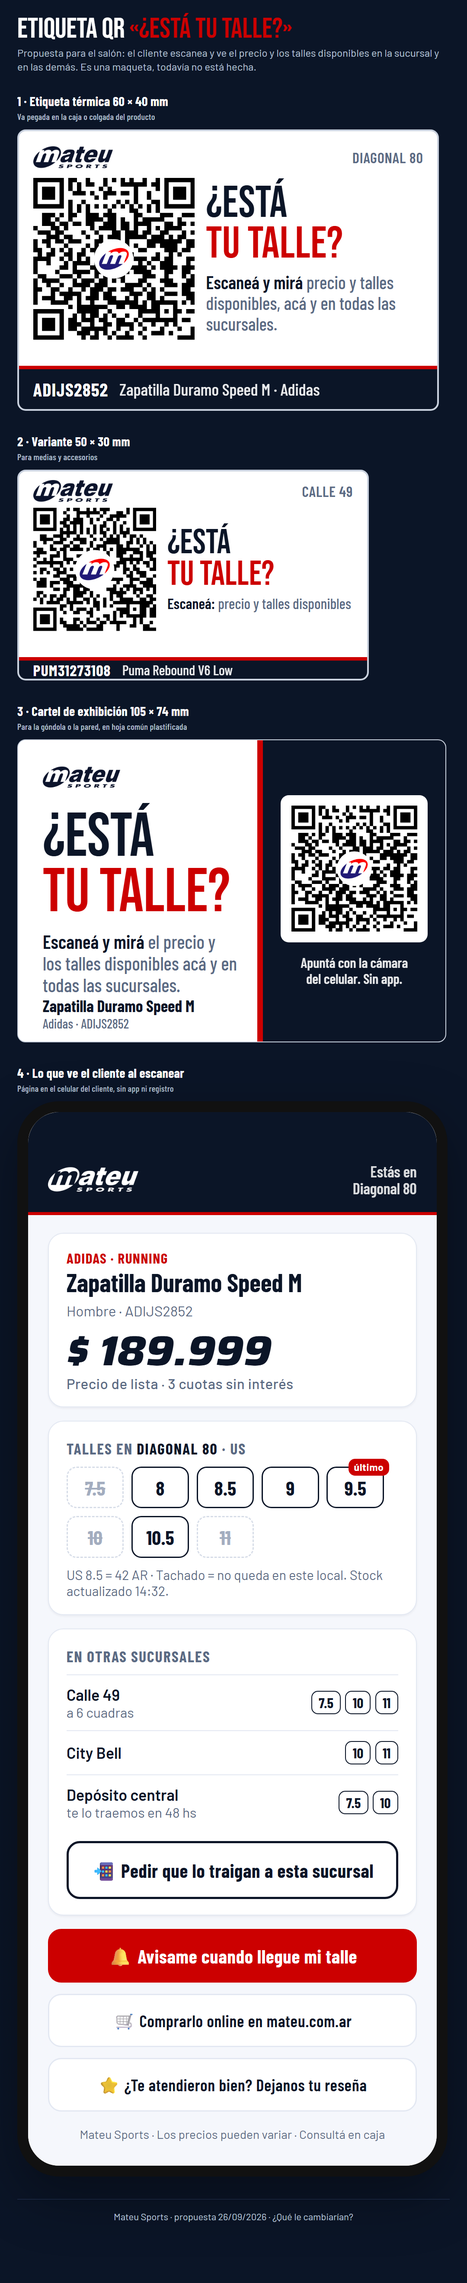
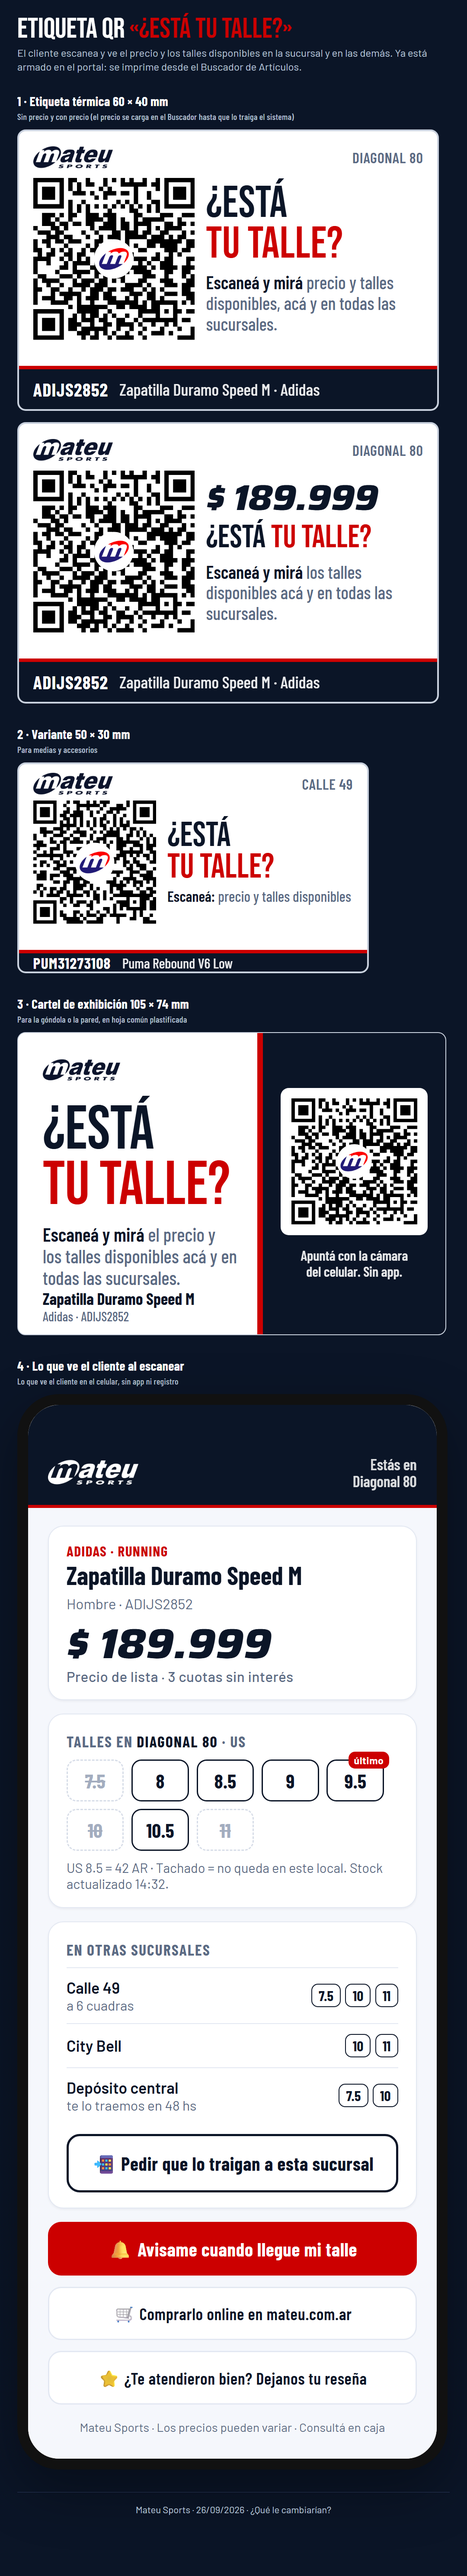
Etiquetas QR: maqueta e imágenes para WhatsApp con la variante con precio; el precio de la etiqueta en Saira a 5,1 mm en una sola línea (el Buscador ahora carga esa fuente)

diff --git a/docs/maquetas/etiqueta-qr.html b/docs/maquetas/etiqueta-qr.html
@@ -21,6 +21,10 @@ h2 small{font-weight:500;color:var(--muted);font-size:14px;margin-left:8px}
 .lbl .txt{flex:1;display:flex;flex-direction:column;justify-content:center;min-width:0}
 .lbl .h{font-family:'Bebas Neue';font-size:6.3mm;line-height:.92;color:var(--navy);letter-spacing:.1px}
 .lbl .h b{color:var(--red);font-weight:400}
+.lbl .pr{font-family:Saira,'Barlow Condensed';font-style:italic;font-weight:800;font-size:5.1mm;line-height:1;margin-bottom:.9mm;letter-spacing:-.2px;white-space:nowrap}
+.lbl .h.sm{font-size:4.6mm;line-height:1}
+.lbl.s .h.sm{font-size:3.6mm}.lbl.s .pr{font-size:4.1mm}
+
 .lbl .p{font-family:'Barlow Condensed';font-weight:600;font-size:2.55mm;line-height:1.15;color:var(--navy);margin-top:1mm}
 .lbl .p span{color:var(--muted);font-weight:500}
 .lbl .foot{background:var(--navy);color:#fff;height:6.6mm;display:flex;align-items:center;padding:0 2mm;gap:1.6mm;border-top:.55mm solid var(--red)}
@@ -84,7 +88,7 @@ h2 small{font-weight:500;color:var(--muted);font-size:14px;margin-left:8px}
 .note b{font-family:'Barlow Condensed';font-size:16px}
 </style></head><body>
 
-<h2>1 · Etiqueta térmica 60 × 40 mm <small>(vista al ×3 — es la que va pegada en la caja / colgada del producto)</small></h2>
+<h2>1 · Etiqueta térmica 60 × 40 mm <small>(vista al ×3 — sin precio y con precio; el precio se tipea en el Buscador hasta que lo traiga el sistema)</small></h2>
 <div class="row">
  <div class="lbl">
[1 lines of base64/hex data omitted]
@@ -93,6 +97,18 @@ h2 small{font-weight:500;color:var(--muted);font-size:14px;margin-left:8px}
    <div class="txt">
     <div class="h">¿Está<br><b>tu talle?</b></div>
     <div class="p">Escaneá y mirá <span>precio y talles disponibles, acá y en todas las sucursales.</span></div>
+   </div>
+  </div>
+  <div class="foot"><span class="cod">ADIJS2852</span><span class="desc">Zapatilla Duramo Speed M · Adidas</span></div>
+ </div>
+ <div class="lbl">
[1 lines of base64/hex data omitted]
+  <div class="body">
+   <div class="qr"><div id="q1b"></div><div class="m"><img src="../../icons/logo-m.png"></div></div>
+   <div class="txt">
+    <div class="pr">$ 189.999</div>
+    <div class="h sm">¿Está <b>tu talle?</b></div>
+    <div class="p">Escaneá y mirá <span>los talles disponibles acá y en todas las sucursales.</span></div>
    </div>
   </div>
   <div class="foot"><span class="cod">ADIJS2852</span><span class="desc">Zapatilla Duramo Speed M · Adidas</span></div>
@@ -160,6 +176,7 @@ h2 small{font-weight:500;color:var(--muted);font-size:14px;margin-left:8px}
 <script>
 function qr(id,txt){var q=qrcode(0,'H');q.addData(txt);q.make();document.getElementById(id).innerHTML=q.createSvgTag({cellSize:4,margin:0,scalable:true});}
 qr('q1','https://m.mateu.com.ar/q/ADIJS2852?s=10');
+qr('q1b','https://m.mateu.com.ar/q/ADIJS2852?s=10');
 qr('q2','https://m.mateu.com.ar/q/PUM31273108?s=16');
 qr('q3','https://m.mateu.com.ar/q/ADIJS2852?s=10');
 </script>

diff --git a/ubicaciones/index.html b/ubicaciones/index.html
@@ -8,7 +8,7 @@
 <meta name="mobile-web-app-capable" content="yes">
 <meta name="apple-mobile-web-app-status-bar-style" content="black-translucent">
 <title>Buscador de Artículos — Mateu Sports</title>
-<link href="https://fonts.googleapis.com/css2?family=Bebas+Neue&family=Barlow+Condensed:wght@400;500;600;700&family=Barlow:wght@400;500;600&display=swap" rel="stylesheet">
+<link href="https://fonts.googleapis.com/css2?family=Bebas+Neue&family=Barlow+Condensed:wght@400;500;600;700&family=Barlow:wght@400;500;600&family=Saira:ital,wght@1,800&display=swap" rel="stylesheet">
 <script src="https://cdnjs.cloudflare.com/ajax/libs/xlsx/0.18.5/xlsx.full.min.js"></script>
 <style>
 *, *::before, *::after { box-sizing:border-box; margin:0; padding:0; }
@@ -681,14 +681,14 @@ body.puesto .ubi-chip{ font-size:16px; padding:9px 14px; border-radius:8px; }
 .qr-lbl .h{ font-family:'Bebas Neue', 'Barlow Condensed', sans-serif; font-size:6.3mm; line-height:.92; letter-spacing:.1px; }
 .qr-lbl .h.sm{ font-size:4.6mm; line-height:1; }
 .qr-lbl .h b{ color:#CC0000; font-weight:400; }
-.qr-lbl .pr{ font-family:'Saira', 'Barlow Condensed', sans-serif; font-style:italic; font-weight:800; font-size:6.4mm; line-height:1; margin-bottom:.8mm; letter-spacing:-.1px; }
+.qr-lbl .pr{ font-family:'Saira', 'Barlow Condensed', sans-serif; font-style:italic; font-weight:800; font-size:5.1mm; line-height:1; margin-bottom:.9mm; letter-spacing:-.2px; white-space:nowrap; }
 .qr-lbl .p{ font-weight:600; font-size:2.55mm; line-height:1.15; margin-top:1mm; }
 .qr-lbl .p span{ color:#5b6b85; font-weight:500; }
 .qr-lbl .foot{ background:#0B1527; color:#fff; height:6.6mm; display:flex; align-items:center; padding:0 2mm; gap:1.6mm; border-top:.55mm solid #CC0000; flex:none; }
 .qr-lbl .foot .cod{ font-weight:700; font-size:2.6mm; letter-spacing:.3px; flex:none; }
 .qr-lbl .foot .desc{ font-weight:500; font-size:2.4mm; white-space:nowrap; overflow:hidden; text-overflow:ellipsis; opacity:.92; }
 .qr-lbl.s{ width:50mm; height:30mm; }
-.qr-lbl.s .top{ height:5.2mm; padding-top:1mm; } .qr-lbl.s .qr{ width:17.5mm; height:17.5mm; } .qr-lbl.s .h{ font-size:4.9mm; } .qr-lbl.s .h.sm{ font-size:3.6mm; } .qr-lbl.s .pr{ font-size:5mm; }
+.qr-lbl.s .top{ height:5.2mm; padding-top:1mm; } .qr-lbl.s .qr{ width:17.5mm; height:17.5mm; } .qr-lbl.s .h{ font-size:4.9mm; } .qr-lbl.s .h.sm{ font-size:3.6mm; } .qr-lbl.s .pr{ font-size:4.1mm; }
 .qr-lbl.s .p{ font-size:2.1mm; margin-top:.6mm; } .qr-lbl.s .foot{ height:5.4mm; } .qr-lbl.s .foot .cod{ font-size:2.2mm; } .qr-lbl.s .foot .desc{ font-size:2mm; }
 .qr-lbl.a4{ width:65mm; height:40mm; border-color:#e6e6e6; border-radius:0; }
 .qr-cartel{ width:105mm; height:74mm; background:#fff; color:#0B1527; position:relative; overflow:hidden; display:flex; border:1px solid #c9d1de; border-radius:2mm; font-family:'Barlow Condensed', Barlow, sans-serif; box-sizing:border-box; flex:none; }
@@ -696,7 +696,7 @@ body.puesto .ubi-chip{ font-size:16px; padding:9px 14px; border-radius:8px; }
 .qr-cartel .l img.word{ height:6mm; align-self:flex-start; filter:brightness(0); }
 .qr-cartel .h{ font-family:'Bebas Neue', 'Barlow Condensed', sans-serif; font-size:15mm; line-height:.9; margin-top:4mm; }
 .qr-cartel .h b{ color:#CC0000; font-weight:400; }
-.qr-cartel .pr{ font-family:'Saira', 'Barlow Condensed', sans-serif; font-style:italic; font-weight:800; font-size:11mm; line-height:1; margin-top:3mm; }
+.qr-cartel .pr{ font-family:'Saira', 'Barlow Condensed', sans-serif; font-style:italic; font-weight:800; font-size:9.5mm; white-space:nowrap; line-height:1; margin-top:3mm; }
 .qr-cartel .pr + .h{ font-size:9mm; margin-top:1.5mm; }
 .qr-cartel .p{ font-weight:600; font-size:4.4mm; line-height:1.15; margin-top:2.5mm; max-width:52mm; }
 .qr-cartel .p span{ color:#5b6b85; font-weight:500; }
